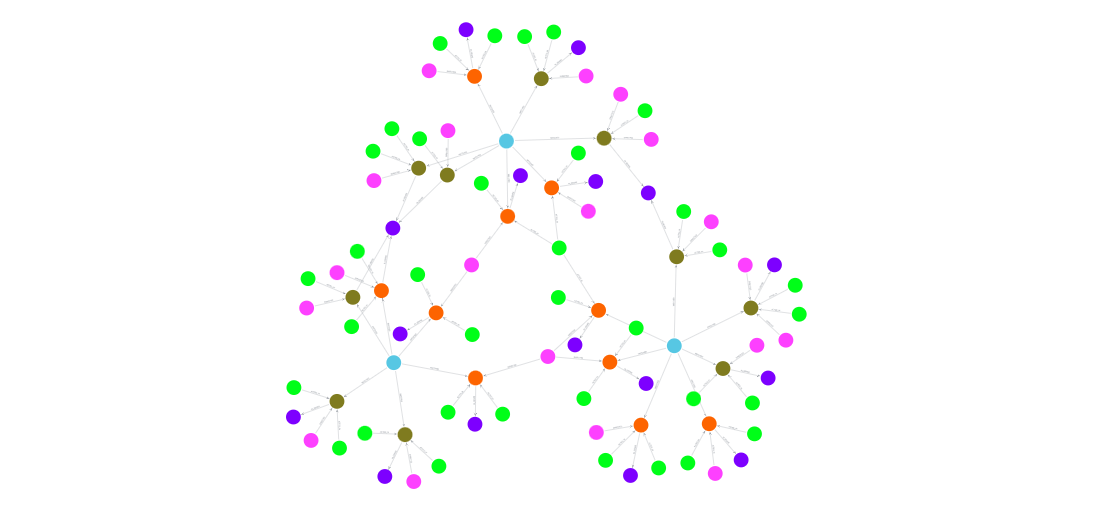
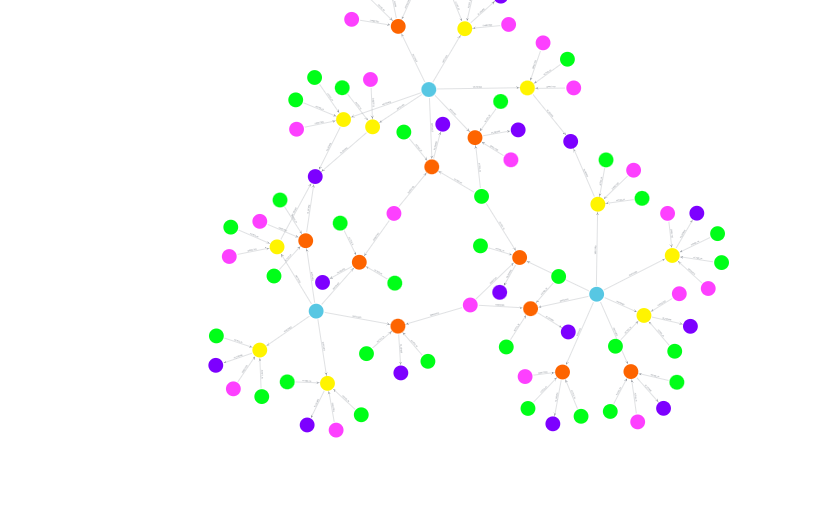
refactor: Imagem
Correção das cores das imagens e descrição no Readme.md

diff --git a/projects/01-Service_Streaming_Model/README.MD b/projects/01-Service_Streaming_Model/README.MD
@@ -80,9 +80,9 @@ Modelar e criar um pequeno grafo de conhecimento para este serviço.
 - **Azul Claro:** Users
 - **Verde:** Atores/Atrizes
 - **Rosa:** Diretores/Diretoras
-- **Roxo:** Gênero do Filme
-- **Laranja:** Filme
-- **Marrom Claro:** Série
+- **Roxo:** Gênero dos Filmes e Séries
+- **Laranja:** Filmes
+- **Amarelo:** Séries
 
 ### Script em Cypher
 
